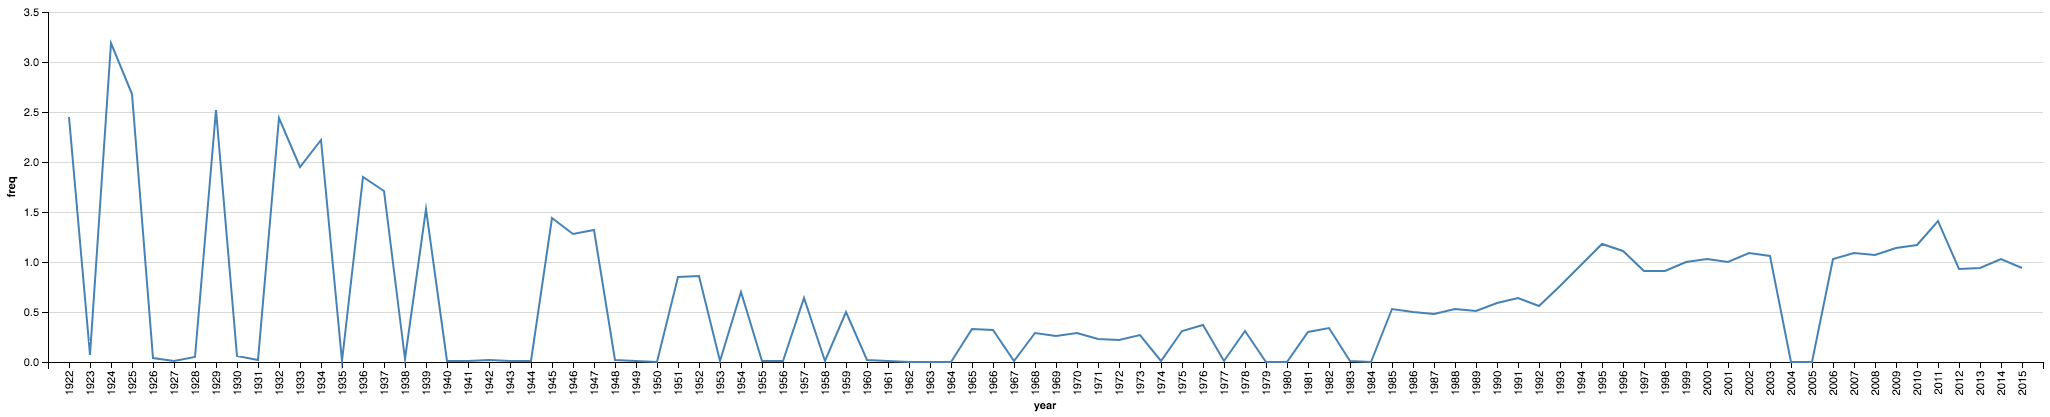
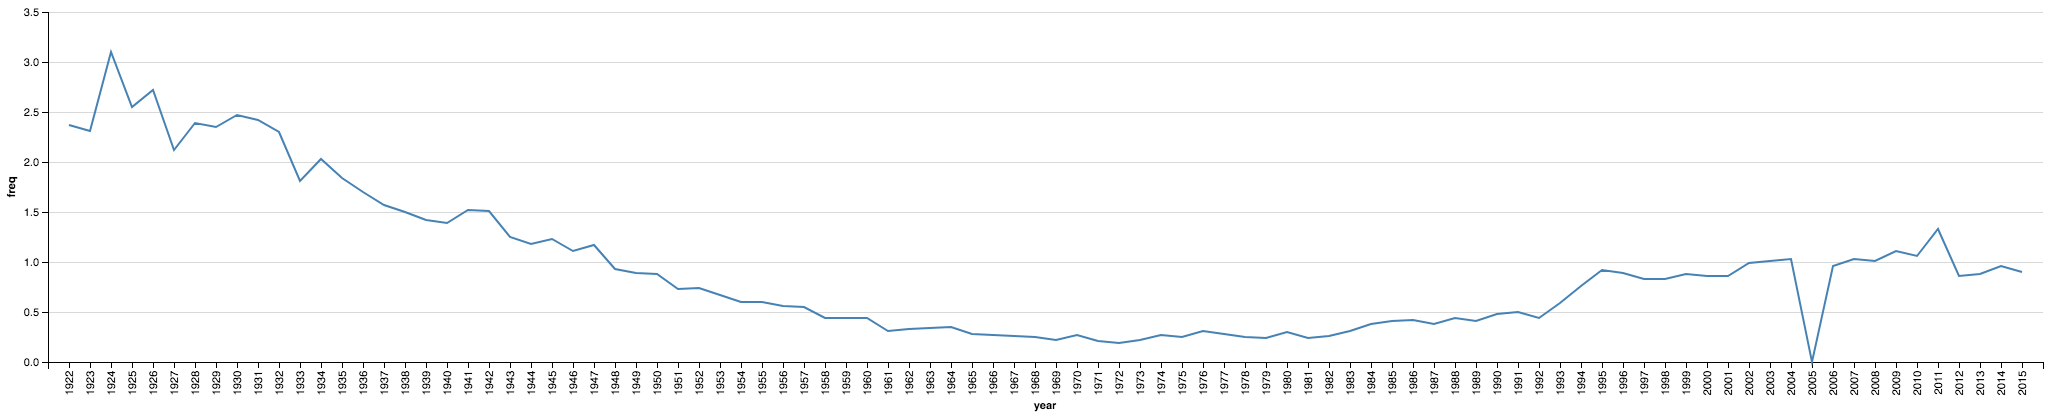
bugs en el script que construye la matriz

diff --git a/_posts/2017-08-12-matrices-y-nombres.md b/_posts/2017-08-12-matrices-y-nombres.md
@@ -18,7 +18,7 @@ Para poner a andar un ratito la croqueta, me puse a pensar cómo hacer un métod
 ## Preparando el dataset
 
 ```bash
-cat historico-nombres.csv | uconv  -t ASCII -x nfd -c | tr '[:upper:]' '[:lower:]' | tr -s ' ' | sed -E 's/^ *//' | csvfix sort -smq -rh -f 1:S,3:N > sorted-ascii-historico-nombres.csv > ascii-historico-nombres.csv
+cat historico-nombres.csv | uconv  -t ASCII -x nfd -c | tr '[:upper:]' '[:lower:]' | tr -s ' ' | sed -e 's/^ *//' -e 's/ *$//' | csvfix sort -smq -rh -f 1:S,3:N > sorted-ascii-historico-nombres.csv > ascii-historico-nombres.csv
 ```
 
 Ese _pipeline_ de comandos procesa el archivo original aplicando las siguientes transformaciones:
@@ -26,7 +26,7 @@ Ese _pipeline_ de comandos procesa el archivo original aplicando las siguientes 
   - `uconv -t ASCII -x nfd -c`: Aplicar la forma de normalización _Canonical Decomposition_ de Unicode (NFD). En criollo, sacarle acentos a los caracteres
   - `tr '[:upper:]' '[:lower:]'`: pasar todo a minísculas
   - `tr -s ' '`: convertir espacios repetidos a uno sólo.
-  - `sed -E 's/^ *//'`: sacar espacios del principio de cada línea.
+  - `sed -e 's/^ *//' -e 's/ *$//'`: sacar espacios del principio y final de cada línea.
   - `csvfix sort -smq -rh -f 1:S,3:N`: ordenar la tabla según nombre y luego año.
   
 Nos queda algo así:
@@ -73,13 +73,13 @@ next(reader) # skip header
 cur_name, cur_row, i = None, None, -1
 for row in reader:
     if row[0] != cur_name:
-        NAMES[row[0]] = i
         i += 1
-
+        NAMES[row[0]] = i
+        
     if i % 2000 == 0:
         print("%d names processed" % i)
 
-    FREQS[i, int(row[2]) - YEAR_MIN] = int(row[1])
+    FREQS[i, int(row[2]) - YEAR_MIN] += int(row[1])
     cur_name = row[0]
 
 # save FREQS
@@ -124,11 +124,11 @@ FREQS[NAMES['manuel']]
 
 
 
-Visualizamos el resultado para verificar que al menos se parezca a lo que reporta. Para esto, también vamos a calcular el _pormilaje_ (?) del nombre de interés para cada año. Con los datos en esta matriz, es fácil: la cantidad de nombres en cada año es la suma de cada columna.
+Visualizamos el resultado para verificar que al menos se parezca a lo que reporta el sitio oficial. Para esto, también vamos a calcular el _pormilaje_ (?) del nombre de interés para cada año. Con los datos en esta matriz, es fácil: la cantidad de nombres en cada año es la suma de cada columna.
 
 
 ```python
-manuel_1000ct = (FREQS[NAMES['manuel']] / np.sum(FREQS, axis=0)) * 1000
+manuel_1000ct = (FREQS[NAMES['manuel']+1] / np.sum(FREQS, axis=0)) * 1000
 ```
 
 
@@ -165,7 +165,8 @@ chart
 ![png](/wp-content/uploads/2017/08/chart.png)
 
 
-Es _parecido_, pero no igual 😔. Quizás el sitio oficial esté calculando los _pormilajes_ con otros valores, o cometí algún error que no estoy viendo.
+
+Es parecido, pero no igual 😔. El 0 en 2005 no coincide con la fuente, sospecho algun problema de comparacion de strings.
 
 # Mirá, mamá: sin base de datos.
 
